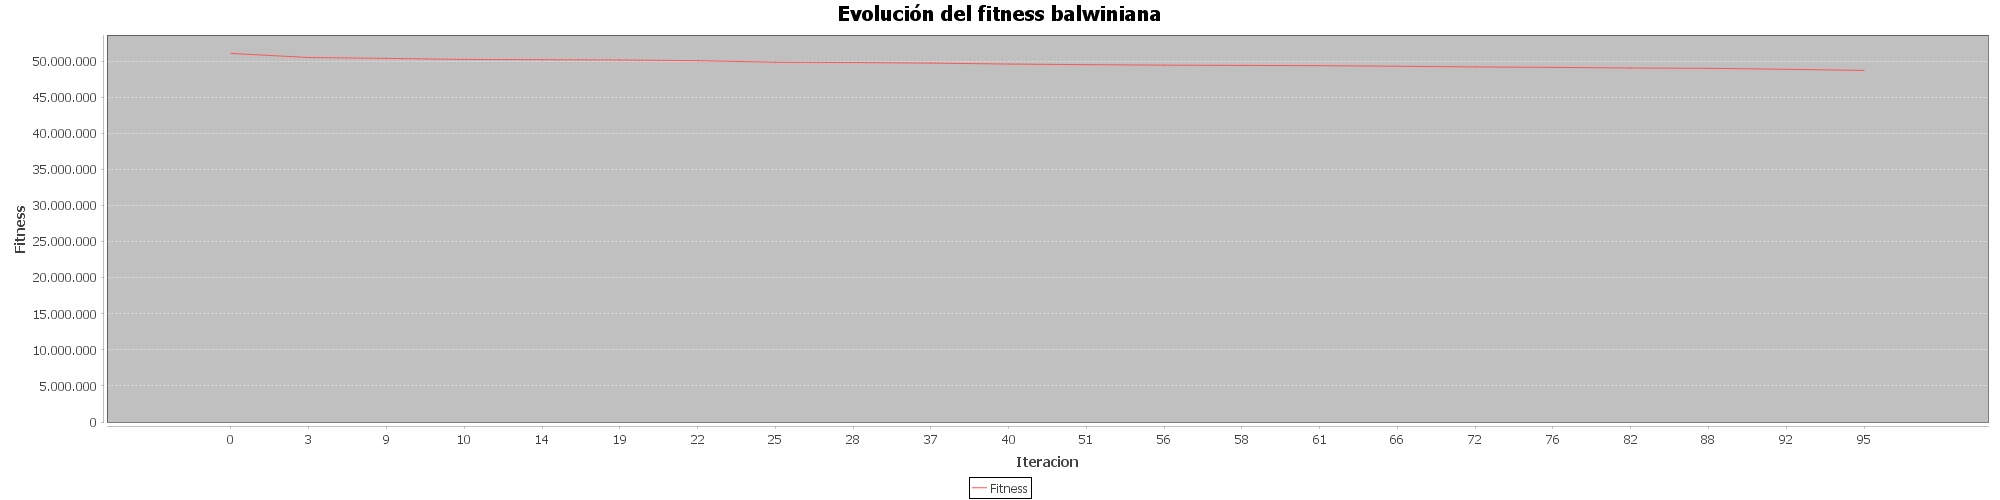
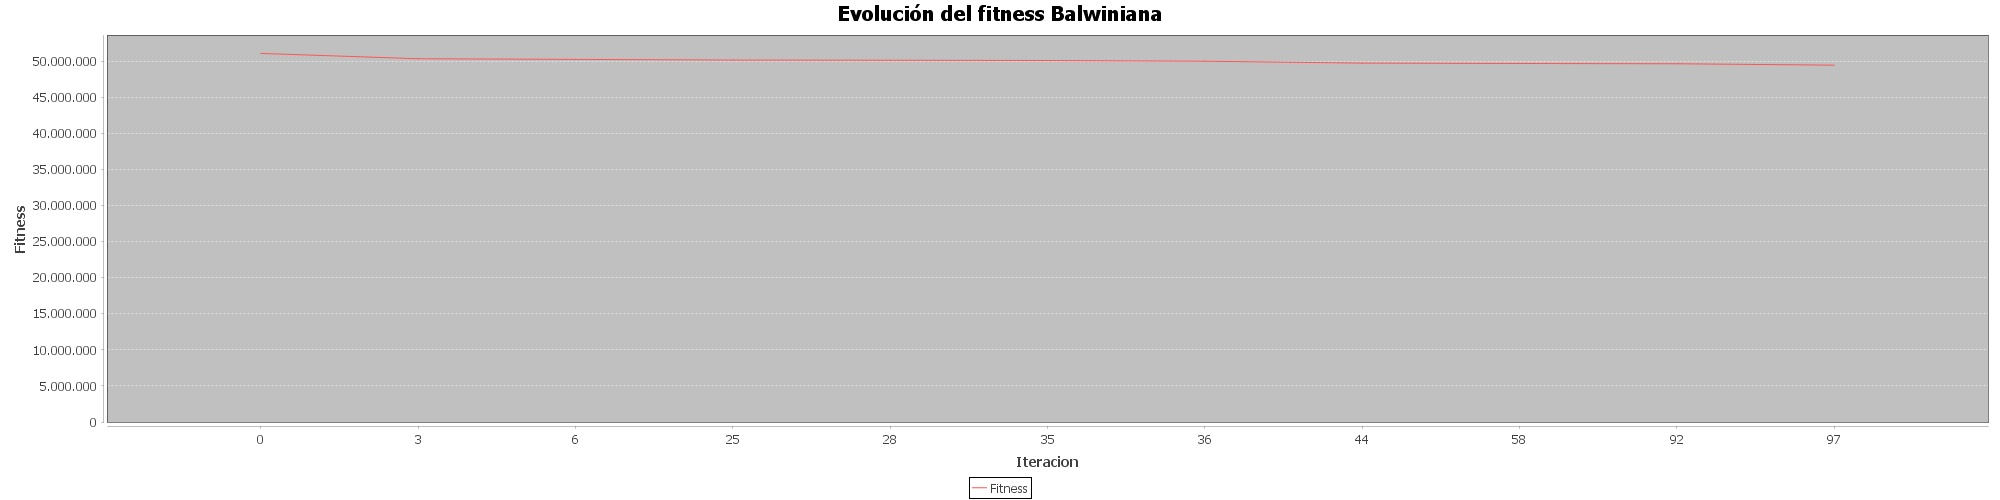
Lamarckiana acabada

diff --git a/QAP genetic algorithm/src/qap/genetic/algorithm/Baldwiniana.java b/QAP genetic algorithm/src/qap/genetic/algorithm/Baldwiniana.java
@@ -5,15 +5,7 @@
  */
 package qap.genetic.algorithm;
 
-import java.io.BufferedWriter;
-import java.io.File;
-import java.io.FileWriter;
-import java.io.IOException;
 import java.util.ArrayList;
-import java.util.Arrays;
-import java.util.Random;
-import java.util.logging.Level;
-import java.util.logging.Logger;
 
 /**
  *
@@ -60,7 +52,7 @@ public class Baldwiniana {
                 Individuo padre2 = util.torneoBinario2(poblacion, padre1);
                 Individuo hijo1 = new Individuo(), hijo2 = new Individuo();
 
-                cruce(padre1.getCromosoma(), padre2.getCromosoma(), hijo1, hijo2);
+                util.cruce(padre1.getCromosoma(), padre2.getCromosoma(), hijo1, hijo2);
                 descendencia.add(hijo1);
                 descendencia.add(hijo2);
             }
@@ -70,12 +62,12 @@ public class Baldwiniana {
         }
         util.guardarResultado("baldwin", mejor);
         long endTime = System.currentTimeMillis() - startTime;
-        System.out.println("El algoritmo genetico estandar ha tardado " + (endTime / 1000) + " segundos.");
+        System.out.println("El algoritmo genetico de Baldwin ha tardado " + (endTime / 1000) + " segundos.");
     }
 
     private void buscarMejor(int ite, UtilGeneticos util) {
         for (int i = 0; i < conf.getTamPoblacion(); i++) {
-            descendencia.get(i).aplicarBusquedaLocal(this.flujos, this.distancias);
+            descendencia.get(i).aplicarBusquedaLocal(this.flujos, this.distancias,false);
             if (descendencia.get(i).getFitness() < mejor.getFitness()) {
                 System.out.println("-----Nuevo mejor " + descendencia.get(i).getFitness() + " en la iteracion " + ite);
                 mejor.setCromosoma(descendencia.get(i).getCromosoma());
@@ -89,65 +81,6 @@ public class Baldwiniana {
         }
     }
 
-    private void cruce(int[] padre1, int[] padre2, Individuo hijo1, Individuo hijo2) {
-        int corte = (int) (Math.random() * n);
-        int cromosoma1[], cromosoma2[];
-        cromosoma1 = new int[n];
-        cromosoma2 = new int[n];
-        for (int i = 0; i < n; i++) {
-            cromosoma1[i] = cromosoma2[i] = -1;
-        }
-        //Relleno el hijo 1
-        System.arraycopy(padre1, 0, cromosoma1, 0, corte);
-        int coincidencias = 0;
-        for (int i = corte; i < n; i++) {
-            if (!yaEsta(cromosoma1, corte + 1, padre2[i])) {
-                cromosoma1[i - coincidencias] = padre2[i];
-            } else {
-                ++coincidencias;
-            }
-        }
-        for (int i = n - coincidencias; i < n; i++) {
-            for (int j = corte; j < n; j++) {
-                if (!yaEsta(cromosoma1, n - coincidencias, padre1[j])) {
-                    cromosoma1[i] = padre1[j];
-                    --coincidencias;
-                    break;
-                }
-            }
-        }
-        hijo1.setCromosoma(cromosoma1);
-
-        //Relleno el hijo 2
-        System.arraycopy(padre2, 0, cromosoma2, 0, corte);
-        coincidencias = 0;
-        for (int i = corte; i < n; i++) {
-            if (!yaEsta(cromosoma2, corte + 1, padre1[i])) {
-                cromosoma2[i - coincidencias] = padre1[i];
-            } else {
-                ++coincidencias;
-            }
-        }
-        for (int i = n - coincidencias; i < n; i++) {
-            for (int j = corte; j < n; j++) {
-                if (!yaEsta(cromosoma2, n - coincidencias, padre2[j])) {
-                    cromosoma2[i] = padre2[j];
-                    --coincidencias;
-                    break;
-                }
-            }
-        }
-        hijo2.setCromosoma(cromosoma2);
-    }
-
-    private boolean yaEsta(int cromosoma[], int pos, int num) {
-        for (int i = 0; i < pos; i++) {
-            if (cromosoma[i] == num) {
-                return true;
-            }
-        }
-        return false;
-    }
 
     /**
      * @return the graficoMejora

diff --git a/QAP genetic algorithm/src/qap/genetic/algorithm/Lamarckiana.java b/QAP genetic algorithm/src/qap/genetic/algorithm/Lamarckiana.java
@@ -11,7 +11,7 @@ import java.util.ArrayList;
  *
  * @author juanca
  */
-public class Estandar {
+public class Lamarckiana {
 
     private final int n;
     private final int flujos[][];
@@ -26,7 +26,7 @@ public class Estandar {
 
     private final Individuo mejor;
 
-    public Estandar(int n, int f[][], int d[][]) {
+    public Lamarckiana(int n, int f[][], int d[][]) {
         this.n = n;
         this.flujos = f;
         this.distancias = d;
@@ -53,29 +53,30 @@ public class Estandar {
                 Individuo hijo1 = new Individuo(), hijo2 = new Individuo();
 
                 util.cruce(padre1.getCromosoma(), padre2.getCromosoma(), hijo1, hijo2);
-                
                 descendencia.add(hijo1);
                 descendencia.add(hijo2);
             }
             util.mutarPoblacion(descendencia);
             buscarMejor(i, util);
+            System.gc();
         }
-        util.guardarResultado("estandar", mejor);
+        util.guardarResultado("lamarck", mejor);
         long endTime = System.currentTimeMillis() - startTime;
-        System.out.println("El algoritmo genetico estandar ha tardado " + (endTime / 1000) + " segundos.");
+        System.out.println("El algoritmo genetico de Lamarck ha tardado " + (endTime / 1000) + " segundos.");
     }
 
     private void buscarMejor(int ite, UtilGeneticos util) {
         for (int i = 0; i < conf.getTamPoblacion(); i++) {
+            descendencia.get(i).aplicarBusquedaLocal(this.flujos, this.distancias, true);
             if (descendencia.get(i).getFitness() < mejor.getFitness()) {
                 System.out.println("-----Nuevo mejor " + descendencia.get(i).getFitness() + " en la iteracion " + ite);
                 mejor.setCromosoma(descendencia.get(i).getCromosoma());
                 mejor.calcularFitness(flujos, distancias);
                 this.graficoMejora.add(new Pair(ite, mejor.getFitness()));
-                if (mejor.getFitness() < 45152454) {
-                    util.guardarResultado("estandar", mejor);
-                    System.out.println("Oleeeeeeeeeeeeeee");
-                }
+                //if(mejor.getFitness()<45152454){
+                util.guardarResultado("lamarck", mejor);
+                //    System.out.println("Oleeeeeeeeeeeeeee");
+                //}
             }
         }
     }

diff --git a/QAP genetic algorithm/src/qap/genetic/algorithm/UtilGeneticos.java b/QAP genetic algorithm/src/qap/genetic/algorithm/UtilGeneticos.java
@@ -118,4 +118,63 @@ public class UtilGeneticos {
         }
     }
 
+    public void cruce(int[] padre1, int[] padre2, Individuo hijo1, Individuo hijo2) {
+        int corte = (int) (Math.random() * n);
+        int cromosoma1[], cromosoma2[];
+        cromosoma1 = new int[n];
+        cromosoma2 = new int[n];
+        for (int i = 0; i < n; i++) {
+            cromosoma1[i] = cromosoma2[i] = -1;
+        }
+        //Relleno el hijo 1
+        System.arraycopy(padre1, 0, cromosoma1, 0, corte);
+        int coincidencias = 0;
+        for (int i = corte; i < n; i++) {
+            if (!yaEsta(cromosoma1, corte + 1, padre2[i])) {
+                cromosoma1[i - coincidencias] = padre2[i];
+            } else {
+                ++coincidencias;
+            }
+        }
+        for (int i = n - coincidencias; i < n; i++) {
+            for (int j = corte; j < n; j++) {
+                if (!yaEsta(cromosoma1, n - coincidencias, padre1[j])) {
+                    cromosoma1[i] = padre1[j];
+                    --coincidencias;
+                    break;
+                }
+            }
+        }
+        hijo1.setCromosoma(cromosoma1);
+
+        //Relleno el hijo 2
+        System.arraycopy(padre2, 0, cromosoma2, 0, corte);
+        coincidencias = 0;
+        for (int i = corte; i < n; i++) {
+            if (!yaEsta(cromosoma2, corte + 1, padre1[i])) {
+                cromosoma2[i - coincidencias] = padre1[i];
+            } else {
+                ++coincidencias;
+            }
+        }
+        for (int i = n - coincidencias; i < n; i++) {
+            for (int j = corte; j < n; j++) {
+                if (!yaEsta(cromosoma2, n - coincidencias, padre2[j])) {
+                    cromosoma2[i] = padre2[j];
+                    --coincidencias;
+                    break;
+                }
+            }
+        }
+        hijo2.setCromosoma(cromosoma2);
+    }
+
+    private boolean yaEsta(int cromosoma[], int pos, int num) {
+        for (int i = 0; i < pos; i++) {
+            if (cromosoma[i] == num) {
+                return true;
+            }
+        }
+        return false;
+    }
 }

diff --git a/QAP genetic algorithm/src/qap/genetic/algorithm/Individuo.java b/QAP genetic algorithm/src/qap/genetic/algorithm/Individuo.java
@@ -59,9 +59,9 @@ public class Individuo {
         return true;
     }
 
-    public void aplicarBusquedaLocal(int flujos[][], int distancias[][]) {
+    public void aplicarBusquedaLocal(int flujos[][], int distancias[][], boolean lewin) {
         if (mejora == null) {
-            mejora = busquedaLocal(flujos, distancias);
+            mejora = busquedaLocal(flujos, distancias, lewin);
         }
         calcularFitnessLocal(flujos, distancias);
     }
@@ -100,7 +100,7 @@ public class Individuo {
         }
     }
 
-    public int[] busquedaLocal(int flujos[][], int distancias[][]) {
+    public int[] busquedaLocal(int flujos[][], int distancias[][], boolean lewin) {
         Individuo local = new Individuo(this.tam, this.cromosoma, this.fitness);
         Individuo indiAux;
         int vAux;
@@ -119,10 +119,9 @@ public class Individuo {
                 }
             }
         }
-        if (mejorado) {
-//            this.setCromosoma(local.cromosoma);
-//            this.setFitness(local.fitness);
-//            this.setTam(local.tam);
+        if (mejorado && lewin) {
+            this.setCromosoma(local.cromosoma);
+            this.setFitness(local.fitness);
         }
         return local.getCromosoma();
     }

diff --git a/QAP genetic algorithm/src/qap/genetic/algorithm/main.java b/QAP genetic algorithm/src/qap/genetic/algorithm/main.java
@@ -36,7 +36,12 @@ public class main {
         //Baldwin
         Baldwiniana bald = new Baldwiniana(n, flujos, distancias);
         bald.ejecutar();
-        new Grafico(bald.getGraficoMejora(),"balwiniana").setVisible(true);
+        new Grafico(bald.getGraficoMejora(),"Balwiniana").setVisible(true);
+        
+        //Lamarck
+        Lamarckiana lam = new Lamarckiana(n, flujos, distancias);
+        lam.ejecutar();
+        new Grafico(lam.getGraficoMejora(),"Lamarckiana").setVisible(true);
     }
 
     private static void leerFichero() throws FileNotFoundException {
